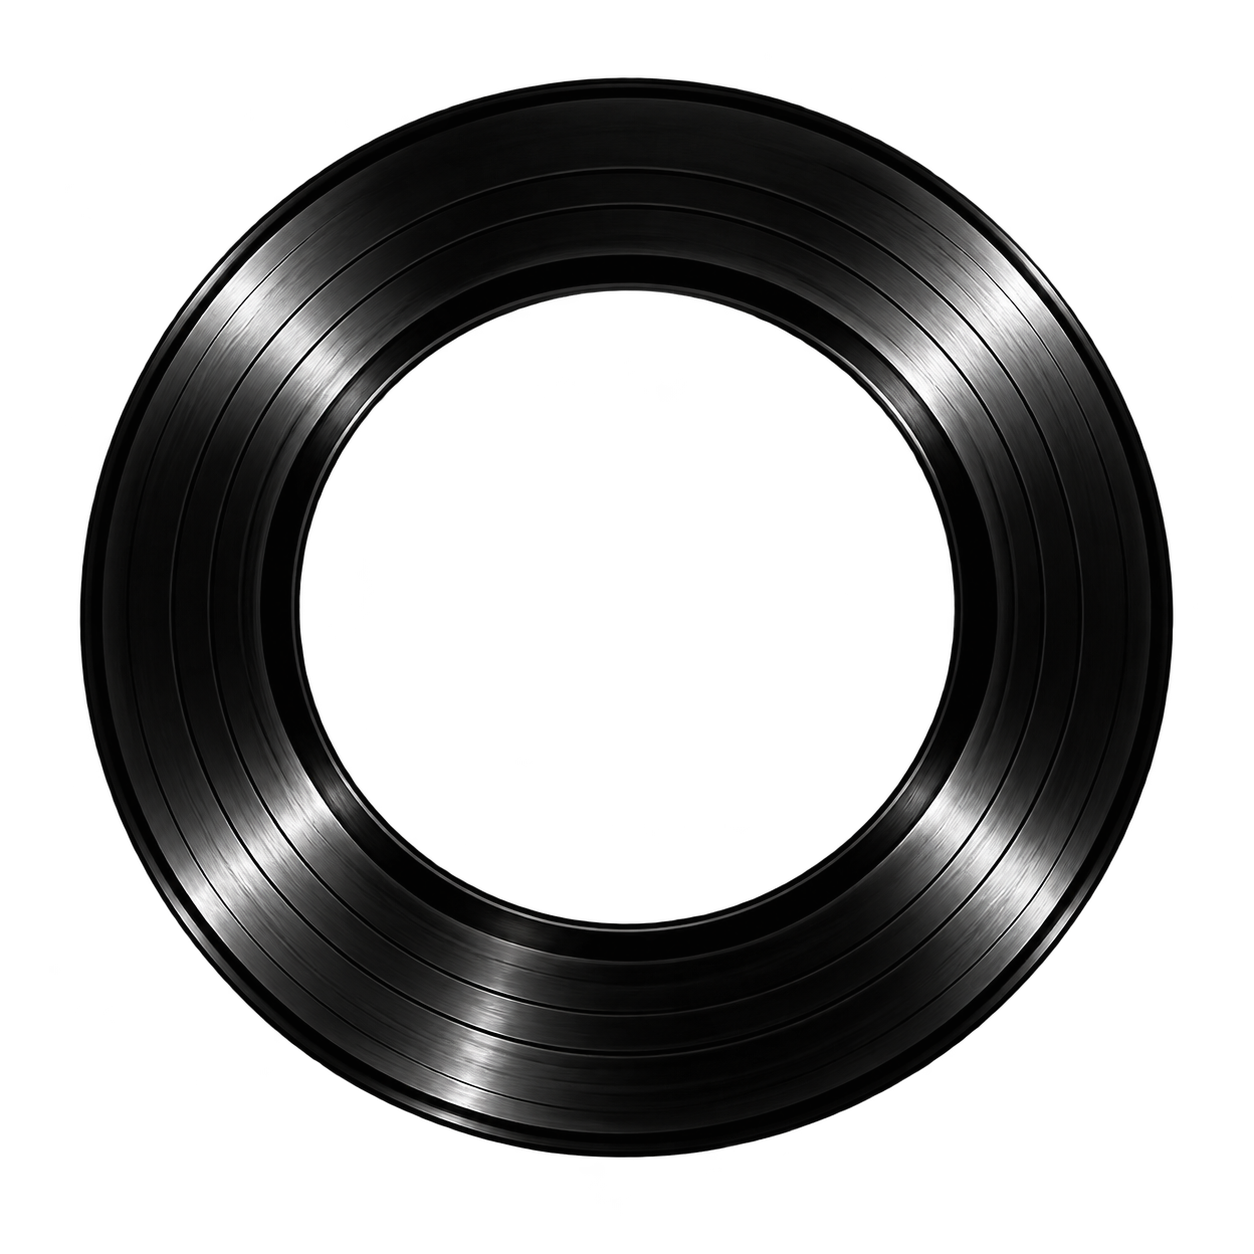
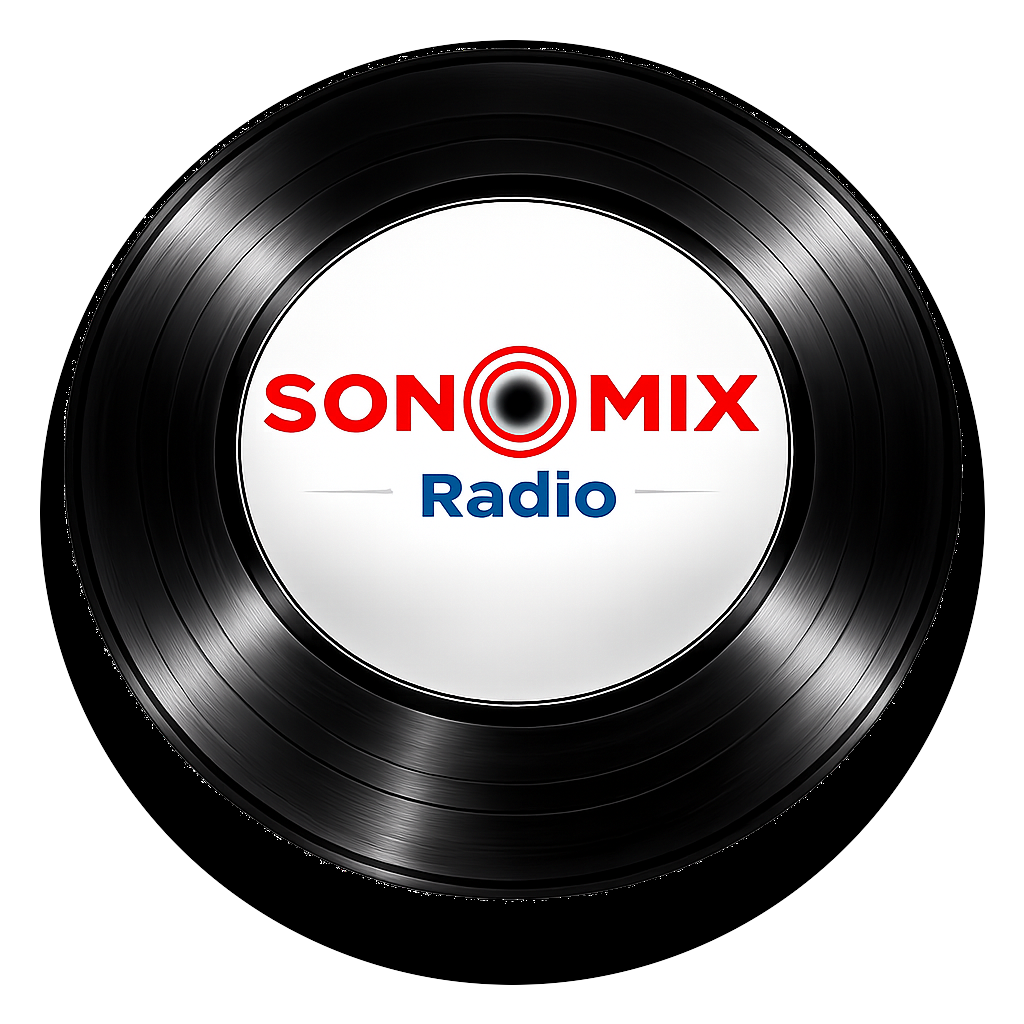
Add files via upload

Changed region(s): [[0.0312, 0.0312, 0.9688, 0.9688]]

diff --git a/app/style.css b/app/style.css
@@ -1,1 +1,1 @@
-:root{color-scheme:dark;font-family:Arial,Helvetica,sans-serif}*{box-sizing:border-box;-webkit-tap-highlight-color:transparent}html,body{width:100%;height:100%;overflow:hidden}body{margin:0;color:#fff;background:#070707}.app-shell{width:100%;height:100vh;height:100dvh;overflow:hidden;background:#0b0b0b url('fondo.jpg') center center/cover no-repeat}.radio-player{width:min(100%,600px);height:100%;margin:auto;padding:max(22px,env(safe-area-inset-top)) 24px max(22px,env(safe-area-inset-bottom));display:flex;flex-direction:column;align-items:center;justify-content:space-evenly;gap:clamp(8px,1.8dvh,18px)}.online{margin:0;color:#fff;font-size:clamp(.88rem,4.4vw,1.15rem);font-weight:800;letter-spacing:.04em}.online i{display:inline-block;width:9px;height:9px;margin-right:7px;border-radius:50%;background:#e50016;box-shadow:0 0 8px #e50016}.record{position:relative;width:min(56vw,300px);aspect-ratio:1;flex:none}.vinyl{width:100%;height:100%;display:block;animation:spin 11s linear infinite;animation-play-state:paused;filter:drop-shadow(0 10px 13px rgba(0,0,0,.74))}.record.playing .vinyl{animation-play-state:running}.label{position:absolute;inset:24%;display:block;border-radius:50%;overflow:hidden;background:#fff;box-shadow:0 0 0 2px #141414}.label img{display:block;width:100%;height:100%;object-fit:cover}@keyframes spin{to{transform:rotate(360deg)}}.track{width:min(100%,480px);margin:0;padding:16px 15px;text-align:center;border-radius:17px;background:rgba(8,8,8,.9);box-shadow:0 10px 22px rgba(0,0,0,.32);flex:none}.track p{margin:0 0 11px;font-size:clamp(.71rem,3.5vw,.88rem);font-weight:800;letter-spacing:.05em}.track h1{margin:0;font-size:clamp(1.13rem,5.6vw,1.7rem);white-space:nowrap;overflow:hidden;text-overflow:ellipsis}.track span{display:block;margin-top:8px;color:#fff;font-size:clamp(.95rem,4.5vw,1.25rem);white-space:nowrap;overflow:hidden;text-overflow:ellipsis}.play{width:clamp(88px,25vw,122px);height:clamp(88px,25vw,122px);flex:none;border:0;border-radius:50%;color:#000;background:#00d45a;font-size:clamp(2rem,8vw,2.8rem);cursor:pointer;box-shadow:0 9px 25px rgba(0,212,90,.27)}.play:active{transform:scale(.95)}.play span{display:inline-block;margin-left:6px}.play .pause{margin-left:0;font-size:clamp(2rem,7vw,2.45rem);letter-spacing:3px}.status{min-height:20px;margin:0;flex:none;font-size:clamp(.98rem,4.5vw,1.2rem)}.volume{width:min(100%,520px);display:flex;align-items:center;gap:14px;flex:none}.speaker{font-size:1.35rem}.volume input{flex:1;height:9px;accent-color:#00d45a;cursor:pointer}@media(max-height:650px){.radio-player{padding-top:12px;padding-bottom:12px;gap:6px}.record{width:min(45vw,235px)}.track{padding:10px}.track p{margin-bottom:6px}.track span{margin-top:4px}.play{width:78px;height:78px}.online{font-size:.78rem}.status{font-size:.9rem}}
+:root{color-scheme:dark;font-family:Arial,Helvetica,sans-serif}*{box-sizing:border-box;-webkit-tap-highlight-color:transparent}html,body{width:100%;height:100%;overflow:hidden}body{margin:0;color:#fff;background:#070707}.app-shell{width:100%;height:100vh;height:100dvh;overflow:hidden;background:#0b0b0b url('fondo.jpg') center center/cover no-repeat}.radio-player{width:min(100%,600px);height:100%;margin:auto;padding:max(22px,env(safe-area-inset-top)) 24px max(22px,env(safe-area-inset-bottom));display:flex;flex-direction:column;align-items:center;justify-content:space-evenly;gap:clamp(8px,1.8dvh,18px)}.online{margin:0;color:#fff;font-size:clamp(.88rem,4.4vw,1.15rem);font-weight:800;letter-spacing:.04em}.online i{display:inline-block;width:9px;height:9px;margin-right:7px;border-radius:50%;background:#e50016;box-shadow:0 0 8px #e50016}.record{position:relative;width:min(56vw,300px);aspect-ratio:1;flex:none}.vinyl{width:100%;height:100%;display:block;animation:spin 11s linear infinite;animation-play-state:paused;filter:drop-shadow(0 10px 13px rgba(0,0,0,.74))}.record.playing .vinyl{animation-play-state:running}.label{position:absolute;inset:22.95%;display:block;border-radius:50%;overflow:hidden;background:#fff;box-shadow:0 0 0 2px #141414}.label img{display:block;width:100%;height:100%;object-fit:cover}@keyframes spin{to{transform:rotate(360deg)}}.track{width:min(100%,480px);margin:0;padding:16px 15px;text-align:center;border-radius:17px;background:rgba(8,8,8,.9);box-shadow:0 10px 22px rgba(0,0,0,.32);flex:none}.track p{margin:0 0 11px;font-size:clamp(.71rem,3.5vw,.88rem);font-weight:800;letter-spacing:.05em}.track h1{margin:0;font-size:clamp(1.13rem,5.6vw,1.7rem);white-space:nowrap;overflow:hidden;text-overflow:ellipsis}.track span{display:block;margin-top:8px;color:#fff;font-size:clamp(.95rem,4.5vw,1.25rem);white-space:nowrap;overflow:hidden;text-overflow:ellipsis}.play{width:clamp(88px,25vw,122px);height:clamp(88px,25vw,122px);flex:none;border:0;border-radius:50%;color:#000;background:#00d45a;font-size:clamp(2rem,8vw,2.8rem);cursor:pointer;box-shadow:0 9px 25px rgba(0,212,90,.27)}.play:active{transform:scale(.95)}.play span{display:inline-block;margin-left:6px}.play .pause{margin-left:0;font-size:clamp(2rem,7vw,2.45rem);letter-spacing:3px}.status{min-height:20px;margin:0;flex:none;font-size:clamp(.98rem,4.5vw,1.2rem)}.volume{width:min(100%,520px);display:flex;align-items:center;gap:14px;flex:none}.speaker{font-size:1.35rem}.volume input{flex:1;height:9px;accent-color:#00d45a;cursor:pointer}@media(max-height:650px){.radio-player{padding-top:12px;padding-bottom:12px;gap:6px}.record{width:min(45vw,235px)}.track{padding:10px}.track p{margin-bottom:6px}.track span{margin-top:4px}.play{width:78px;height:78px}.online{font-size:.78rem}.status{font-size:.9rem}}

diff --git a/app/sw.js b/app/sw.js
@@ -1,4 +1,4 @@
-const CACHE = 'sonomix-player-v7';
+const CACHE = 'sonomix-player-v8';
 const ASSETS = ['./', './index.html', './style.css', './app.js', './manifest.webmanifest', './logo-centro.png', './vinyl-ring.png', './fondo.jpg', './icons/icon-192.png', './icons/icon-512.png'];
 self.addEventListener('install', event => event.waitUntil(caches.open(CACHE).then(cache => cache.addAll(ASSETS)).then(() => self.skipWaiting())));
 self.addEventListener('activate', event => event.waitUntil(caches.keys().then(keys => Promise.all(keys.filter(key => key !== CACHE).map(key => caches.delete(key)))).then(() => self.clients.claim())));
